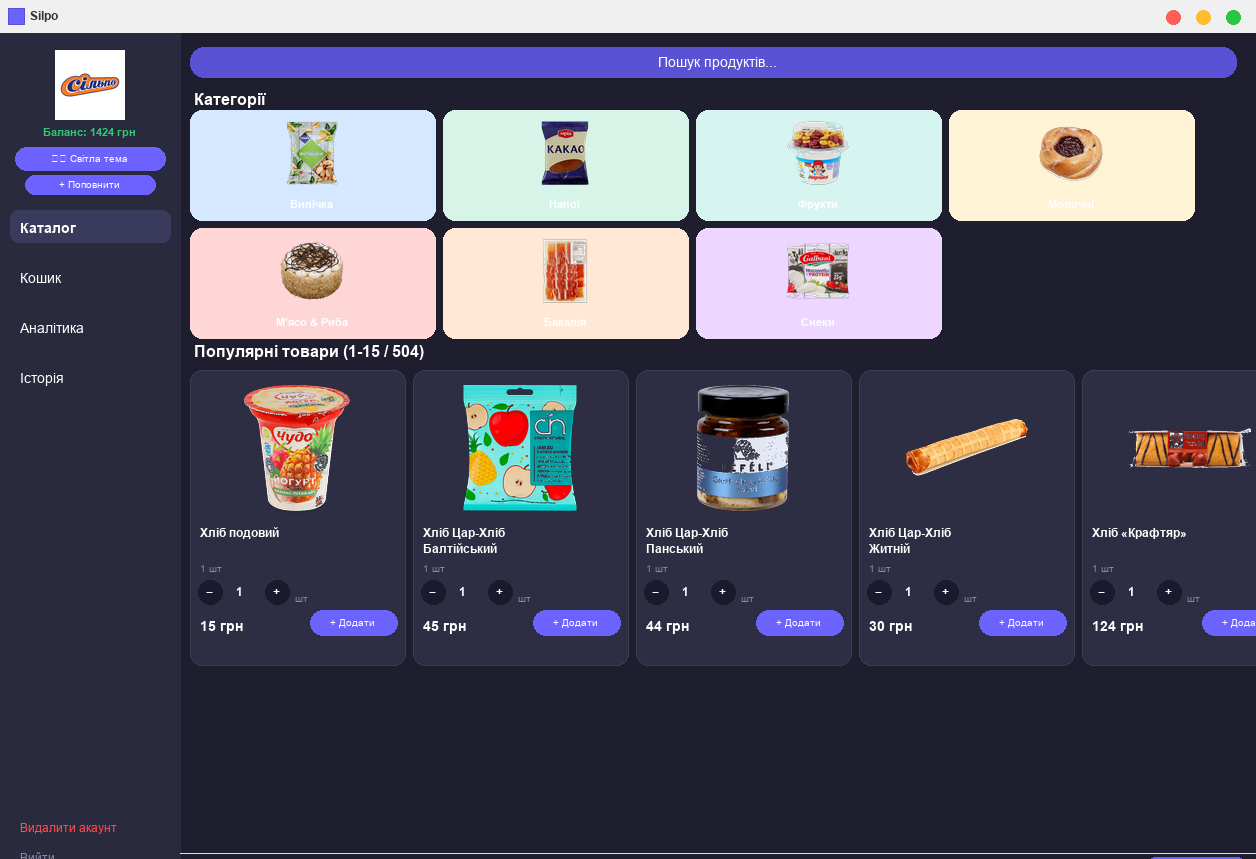
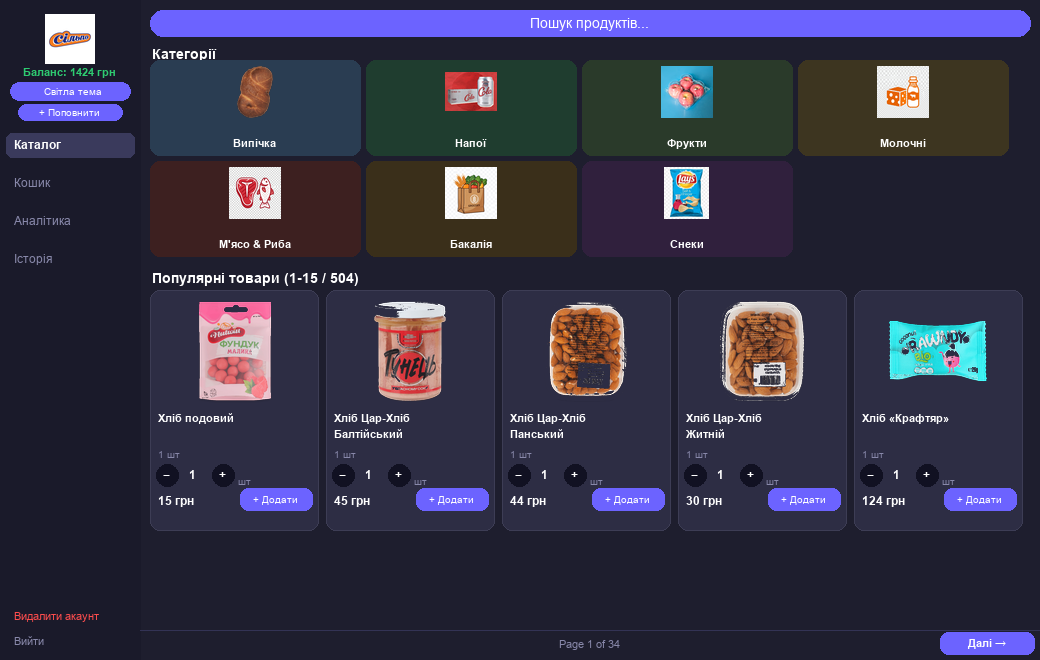
Better dark theme screenshot + README uses v6 for main/details/cart

diff --git a/gen_dark.py b/gen_dark.py
@@ -1,0 +1,189 @@
+"""
+gen_dark.py — генерує screenshot_dark_v7.png
+Максимально точно повторює реальний вигляд застосунку в темній темі.
+"""
+import os, sys
+from PIL import Image, ImageDraw, ImageFont, ImageFilter
+
+APP   = os.path.dirname(os.path.abspath(__file__))
+CACHE = os.path.join(APP, "cache_images")
+ASSETS= os.path.join(APP, "assets")
+
+W, H  = 1040, 660
+SW    = 140      # sidebar width
+
+# ── Темні кольори (точно як у застосунку) ─────────────────────────────────────
+BG      = "#1E1E2E"
+SIDEBAR = "#1A1A2A"
+CARD    = "#2D2D44"
+TEXT    = "#FFFFFF"
+TEXT2   = "#8888AA"
+ACCENT  = "#6C63FF"
+GREEN   = "#2ecc71"
+RED     = "#ff4d4d"
+
+# ── Шрифти ────────────────────────────────────────────────────────────────────
+def fnt(sz, bold=False):
+    for d in [r"C:\Windows\Fonts", "/usr/share/fonts/truetype/dejavu"]:
+        for n in (["arialbd.ttf"] if bold else ["arial.ttf","DejaVuSans.ttf"]):
+            p = os.path.join(d, n)
+            if os.path.exists(p):
+                try: return ImageFont.truetype(p, sz)
+                except: pass
+    return ImageFont.load_default()
+
+F10=fnt(10); F11=fnt(11); F12=fnt(12); F13=fnt(13); F14=fnt(14)
+F10B=fnt(10,1); F11B=fnt(11,1); F12B=fnt(12,1); F14B=fnt(14,1); F16B=fnt(16,1)
+
+def rr(d, xy, fill, r=8, ol=None, w=1):
+    d.rounded_rectangle(xy, radius=r, fill=fill, outline=ol, width=w)
+
+# ── Завантажити зображення ────────────────────────────────────────────────────
+def load_img(path, size):
+    try:
+        img = Image.open(path).convert("RGBA")
+        img.thumbnail(size, Image.LANCZOS)
+        c = Image.new("RGBA", size, (0,0,0,0))
+        off = ((size[0]-img.width)//2, (size[1]-img.height)//2)
+        c.paste(img, off, img)
+        return c
+    except:
+        return Image.new("RGBA", size, (80,80,100,100))
+
+def asset(name, size):
+    return load_img(os.path.join(ASSETS, name), size)
+
+# Хліби з кешу (реальні файли що існують)
+BREAD_IDS = [
+    "972992_480x480wwm_5dc29020-eee3-9e11-091e-d205ef33e8eb",  # Хліб подовий
+    "974592_480x480wwm_0e8ed99a-cbd8-479d-0d01-47fa03382330",  # Цар-Хліб Балтійський
+    "975472_480x480wwm_d57d9e16-4aa4-b848-7a6f-b4e9d425ee9a",  # Цар-Хліб Панський
+    "975473_480x480wwm_7b0488f7-a4af-ead6-57fb-c54680c2af0a",  # Цар-Хліб Житній
+    "974919_480x480wwm_294122d6-9321-01af-9c39-55879e70ecaa",  # Хліб Крафтяр
+]
+
+def bread_img(idx, size=(120,120)):
+    bid = BREAD_IDS[idx % len(BREAD_IDS)]
+    path = os.path.join(CACHE, bid + ".png")
+    return load_img(path, size)
+
+# ── Побудова зображення ───────────────────────────────────────────────────────
+img  = Image.new("RGB", (W, H), BG)
+draw = ImageDraw.Draw(img)
+
+# ── САЙДБАР ───────────────────────────────────────────────────────────────────
+draw.rectangle([0, 0, SW, H], fill=SIDEBAR)
+
+# Логотип
+logo = asset("silpo_logo.png", (70, 50))
+img.paste(logo, (SW//2 - logo.width//2, 14), logo)
+
+# Баланс
+draw.text((SW//2, 72), "Баланс: 1424 грн", fill=GREEN, font=F11B, anchor="mm")
+
+# Кнопка "☀️ Світла тема"
+rr(draw, [10, 82, SW-10, 100], fill=ACCENT, r=10)
+draw.text((SW//2, 91), "  Світла тема", fill="white", font=F10, anchor="mm")
+
+# "+ Поповнити"
+rr(draw, [18, 104, SW-18, 120], fill=ACCENT, r=8)
+draw.text((SW//2, 112), "+ Поповнити", fill="white", font=F10, anchor="mm")
+
+# Навігація
+NAV = [("Каталог", True), ("Кошик", False), ("Аналітика", False), ("Історія", False)]
+for i, (name, active) in enumerate(NAV):
+    y = 135 + i*38
+    if active:
+        rr(draw, [6, y-2, SW-6, y+22], fill="#3A3A5C", r=6)
+    draw.text((14, y+10), name, fill=TEXT if active else TEXT2,
+              font=F12B if active else F12, anchor="lm")
+
+# Низ сайдбару
+draw.text((14, H-50), "Видалити акаунт", fill=RED, font=F11)
+draw.text((14, H-25), "Вийти", fill=TEXT2, font=F11)
+
+# ── ПОШУК ─────────────────────────────────────────────────────────────────────
+rr(draw, [SW+10, 10, W-10, 36], fill=ACCENT, r=14)
+draw.text(((SW+W)//2, 23), "Пошук продуктів...", fill="white", font=F14, anchor="mm")
+
+# ── КАТЕГОРІЇ ─────────────────────────────────────────────────────────────────
+draw.text((SW+12, 46), "Категорії", fill=TEXT, font=F14B)
+
+CATS = [
+    ("cat_bakeries.png",  "#2A3D52", "Випічка"),
+    ("cat_drinks.png",    "#1F3D2F", "Напої"),
+    ("cat_fruits.png",    "#2A3A2A", "Фрукти"),
+    ("cat_dairy.png",     "#3D3520", "Молочні"),
+    ("cat_meat_fish.png", "#3D2020", "М'ясо & Риба"),
+    ("cat_grocery.png",   "#3A2F1A", "Бакалія"),
+    ("cat_snacks.png",    "#30203D", "Снеки"),
+]
+
+cols = 4
+cw, ch = 210, 95
+gap = 6
+sx, sy = SW+10, 60
+
+for i, (icon, col, name) in enumerate(CATS):
+    row, c = divmod(i, cols)
+    x0 = sx + c*(cw+gap)
+    y0 = sy + row*(ch+gap)
+    rr(draw, [x0, y0, x0+cw, y0+ch], fill=col, r=10)
+    ic = asset(icon, (52, 52))
+    ix = x0 + (cw - ic.width)//2
+    img.paste(ic, (ix, y0+6), ic)
+    draw.text((x0+cw//2, y0+ch-12), name, fill=TEXT, font=F11B, anchor="mm")
+
+# ── ТОВАРИ ────────────────────────────────────────────────────────────────────
+prod_y = sy + 2*(ch+gap) + 8
+draw.text((SW+12, prod_y), "Популярні товари (1-15 / 504)", fill=TEXT, font=F14B)
+
+PRODS = [
+    ("Хліб подовий",          "1 шт", "15 грн"),
+    ("Хліб Цар-Хліб\nБалтійський",    "1 шт", "45 грн"),
+    ("Хліб Цар-Хліб\nПанський",       "1 шт", "44 грн"),
+    ("Хліб Цар-Хліб\nЖитній",         "1 шт", "30 грн"),
+    ("Хліб «Крафтяр»",       "1 шт","124 грн"),
+]
+
+card_y = prod_y + 20
+pcw, pch = 168, 240
+for i, (name, wt, price) in enumerate(PRODS):
+    x = SW + 10 + i*(pcw+8)
+    rr(draw, [x, card_y, x+pcw, card_y+pch], fill=CARD, r=10,
+       ol="#3D3D55", w=1)
+
+    # Фото хліба
+    bi = bread_img(i, (110, 110))
+    img.paste(bi, (x + (pcw-bi.width)//2, card_y+6), bi)
+
+    # Назва (2 рядки)
+    lines = name.split("\n")
+    for j, ln in enumerate(lines):
+        draw.text((x+8, card_y+122+j*16), ln, fill=TEXT, font=F11B)
+
+    # Вага
+    draw.text((x+8, card_y+158), wt, fill=TEXT2, font=F10)
+
+    # Кнопки - / +
+    for bx, sym in [(x+6, "−"), (x+62, "+")]:
+        draw.ellipse([bx, card_y+174, bx+22, card_y+196], fill="#111122")
+        draw.text((bx+11, card_y+185), sym, fill="white", font=F12B, anchor="mm")
+    draw.text((x+43, card_y+185), "1", fill=TEXT, font=F12B, anchor="mm")
+    draw.text((x+88, card_y+185), "шт", fill=TEXT2, font=F10)
+
+    # Ціна + кнопка
+    draw.text((x+8, card_y+204), price, fill=TEXT, font=F12B)
+    rr(draw, [x+90, card_y+198, x+pcw-6, card_y+220], fill=ACCENT, r=8)
+    draw.text(((x+90+x+pcw-6)//2, card_y+209), "+ Додати", fill="white", font=F10, anchor="mm")
+
+# ── НИЗ ───────────────────────────────────────────────────────────────────────
+draw.line([(SW, H-30), (W, H-30)], fill="#333355", width=1)
+draw.text(((SW+W)//2, H-16), "Page 1 of 34", fill=TEXT2, font=F11, anchor="mm")
+rr(draw, [W-100, H-28, W-6, H-6], fill=ACCENT, r=8)
+draw.text((W-53, H-17), "Далі →", fill="white", font=F11B, anchor="mm")
+
+# ── ЗБЕРЕГТИ ─────────────────────────────────────────────────────────────────
+out = os.path.join(APP, "screenshot_dark_v7.png")
+img.save(out, "PNG", optimize=True)
+print(f"✅  screenshot_dark_v7.png  ({os.path.getsize(out)//1024} KB)")

diff --git a/README.md b/README.md
@@ -53,7 +53,7 @@
 ### 🏠 Головний екран — Каталог товарів
 > *504 реальних товари Сільпо з фотографіями, цінами та категоріями*
 
-![Головне вікно](screenshot_main_v7.png)
+![Головне вікно](screenshot_main_v6.png)
 
 <br/>
 
@@ -67,14 +67,14 @@
 ### 📄 Детальна сторінка товару
 > *Опис, вибір варіанту/сорту, кількість, відгуки покупців та рейтинг*
 
-![Деталі товару](screenshot_details_v7.png)
+![Деталі товару](screenshot_details_v6.png)
 
 <br/>
 
 ### 🛒 Кошик та оформлення замовлення
 > *Список товарів, підрахунок суми, форма доставки та оплати*
 
-![Кошик](screenshot_cart_v7.png)
+![Кошик](screenshot_cart_v6.png)
 
 ---
 